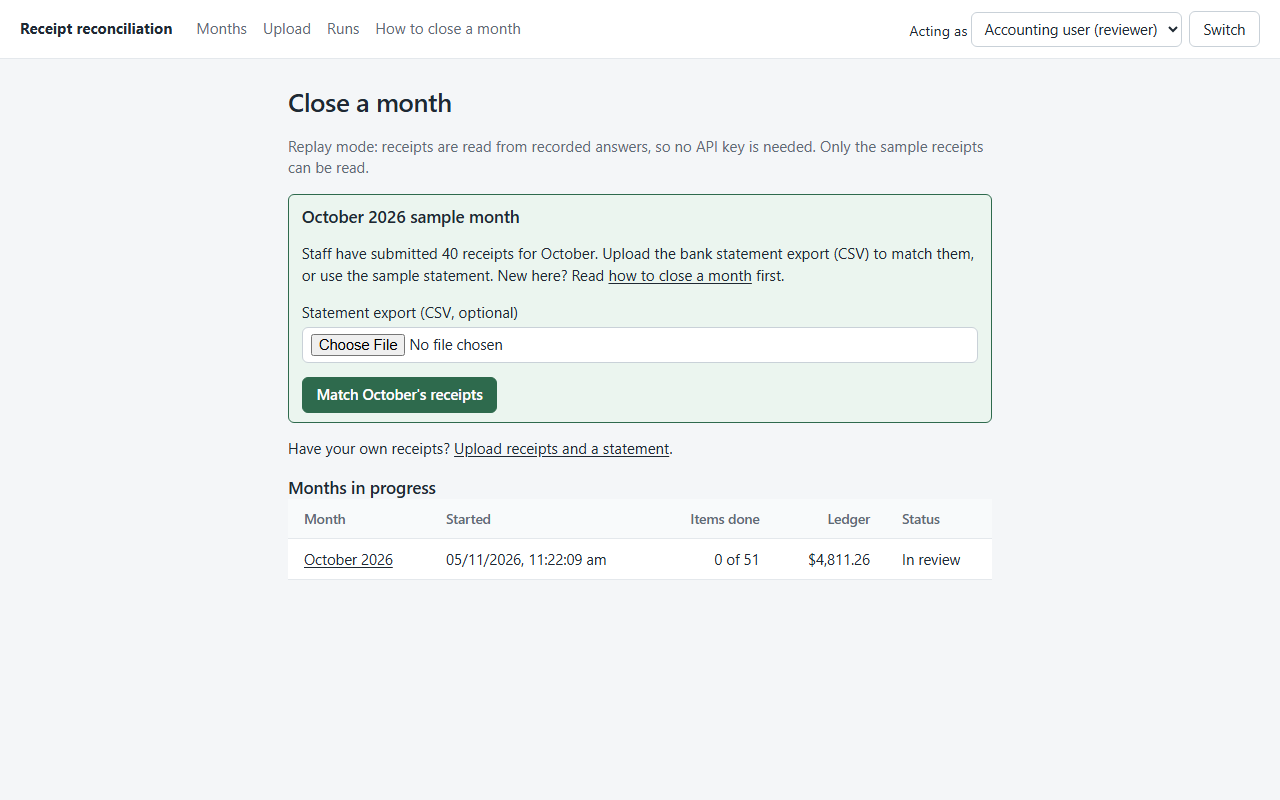
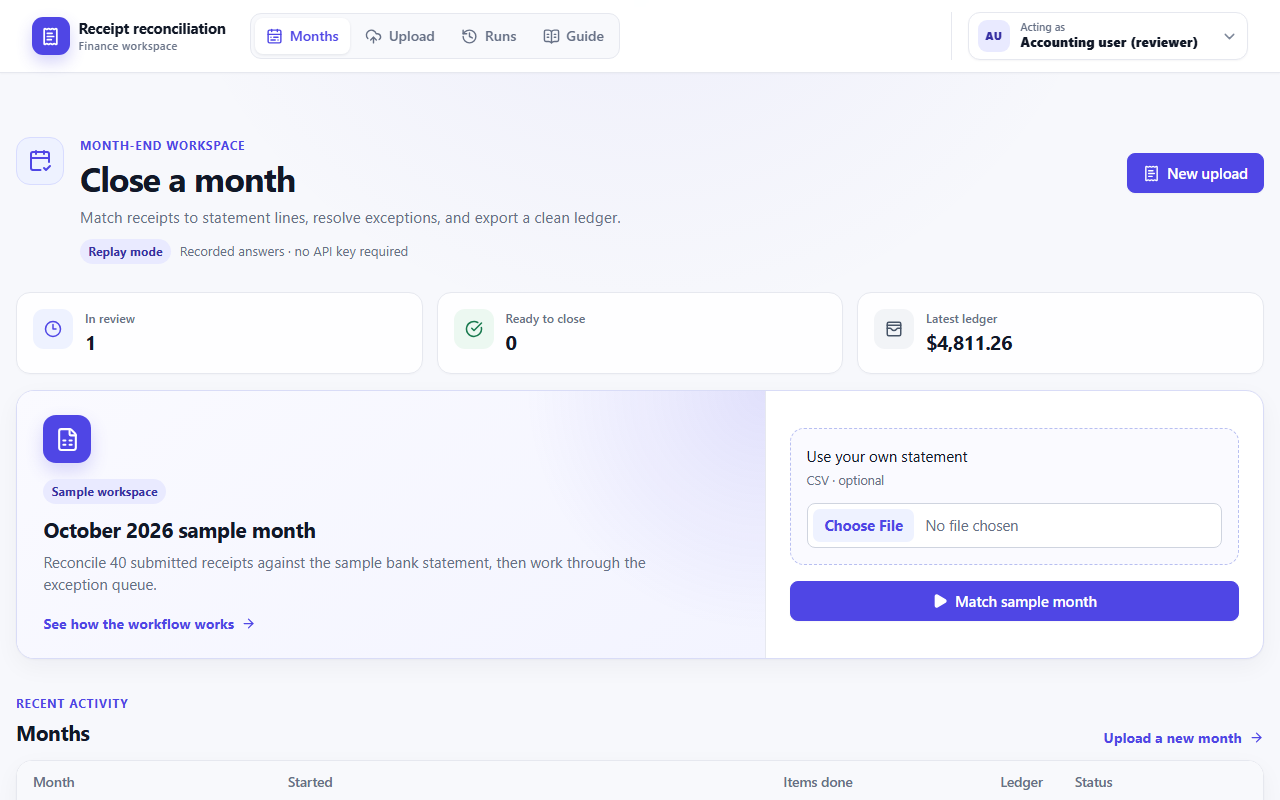
docs: README screenshots and button names for the redesigned UI; demo script labels

diff --git a/docs/sprint/days/day-5-handoff-and-present/demo-script.md b/docs/sprint/days/day-5-handoff-and-present/demo-script.md
@@ -15,12 +15,12 @@ The timing follows `08`. Recorded by the candidate. Every number on screen or sp
 | Time | Show | Say (in your own words) |
 |---|---|---|
 | **0:00–0:45** | The first page | "This comes from a real finance workflow at a company I currently work at; the data here is synthetic. Each month an Accounting user pairs every staff receipt with a card payment, by hand: 'pick a request, hunt for the charge'. Doing it manually is estimated at 20 to 40 minutes for 40 receipts. Pasting it into ChatGPT is fast, about 11 minutes, but in every run it paired 3 of 19 payments wrongly, including one $312 charge paid out three times." |
-| **0:45–1:15** | Press **Match October's receipts** (optionally upload `statement-format-b.csv` first). The queue appears | "The model only reads the receipts. Everything about money is tested code. The queue is in the order the user asked for: blocking problems, then amount differences, then missing information, then match decisions, then clean matches." Point at the tab counts. |
+| **0:45–1:15** | Press **Match sample month** (optionally upload `statement-format-b.csv` first). The queue appears | "The model only reads the receipts. Everything about money is tested code. The queue is in the order the user asked for: blocking problems, then amount differences, then missing information, then match decisions, then clean matches." Point at the tab counts. |
 | **1:15–1:45** | **Amount differences** is empty; go to **Match decisions**, open **R04** (QuickFix Repairs, $500). Choose **L16** ($560), press **Use this payment** | "A $500 repair charged at $560 is never paired automatically: 12% is over policy. I choose it, and it moves to Amount differences." |
 | **1:45–2:05** | R04 is open under **Amount differences**: point at the "Check this pairing" box. Type a reason ("Extra part fitted on site") and **Sign off difference**, then **Approve** | "It shows the receipt and the payment side by side and needs a real reason; 'Good' is refused." |
 | **2:05–2:20** | **Match decisions**, open **R15** ($19.99 app). Two $19.99 payments a day apart are offered. Choose **L22**, **Use this payment** | "Two equal charges a day apart: it never guesses, it asks." |
 | **2:20–2:30** | **Ready to approve**: press **Approve all … clean matches** (the button shows "Approving…") | "Clean matches go through in one click." |
-| **2:30–3:15** | **Month-end pack**: the tiles, by category and by payment source, "Left out of the totals", the no-receipt lines; press **Download ledger (CSV)** | "The pack is what the accountant hands on: totals that add up to the ledger, what was left out and why, and each payment that had no receipt." |
+| **2:30–3:15** | **Month-end pack**: the tiles, by category and by payment source, "Left out of the totals", the no-receipt lines; press **Download ledger** | "The pack is what the accountant hands on: totals that add up to the ledger, what was left out and why, and each payment that had no receipt." |
 | **3:15–4:15** | `EVALUATION.md`: the final table; then `failures.md` F4 | "Twelve test scenarios pass, no wrong automatic matches on the whole month or the holdout half. I broke it on purpose with 11 stress cases; four failed at first. For example, when the exchange-rate service was down, six receipts that were already paid in Australian dollars were flagged and the summary contradicted the ledger. After the fix: none flagged, the ledger unchanged." |
 | **4:15–5:00** | The "Final results at a glance" table, the time-to-close row | "Against the targets: every one met. A newcomer closed the month in 9 minutes, under the 10-minute target. The most important limitation: this is one synthetic month, closed by me and one proxy, not the real Accounting user. And the most interesting finding: the system's own matching was never wrong; every wrong number came from a person pairing a receipt with someone else's payment, so the last changes guard the human step. Next two weeks: the real user closes one real month, measured the same way." |
 

diff --git a/README.md b/README.md
@@ -18,14 +18,14 @@ You need [Node.js 22 or newer](https://nodejs.org) and pnpm (run `npm install -g
 
 ## Close a month
 
-1. **Start the month.** On the first page, under *October 2026 sample month*, choose your bank's statement export (CSV) and press **Match October's receipts**. Or press it without a file to use the sample statement. To read your own receipts instead, use **Upload** (this needs live mode; see below).
+1. **Start the month.** On the first page, under *October 2026 sample month*, choose your bank's statement export (CSV) and press **Match sample month**. Or press it without a file to use the sample statement. To read your own receipts instead, use **Upload** (this needs live mode; see below).
 2. **Work down the review queue.** Items are grouped worst first, one group per tab across the top; each tab shows how many items are in it, and the page opens on the first group with work. Click a row to open it; each row says, in one sentence, what to do. Every group shows its total.
    1. *Blocking intake problems*: unreadable files, files that are not receipts, duplicates.
    2. *Amount differences*: the charge differs from the receipt by more than policy allows.
    3. *Missing information*: a purpose to add, details to check, a category to choose.
    4. *Approvals needing a match decision*: choose a payment, approve a reimbursement, or deal with a payment that has no receipt.
    5. *Matches ready to approve*: check and approve, one at a time or with **Approve all clean matches**.
-3. **Open the month-end pack.** The **Month-end pack** button (top right of the queue) shows totals by category and by payment source, what was left out and why, and how each payment with no receipt was resolved. Download the ledger and the exceptions log from there.
+3. **Open the month-end pack.** The **Month-end pack** button on the review page shows totals by category and by payment source, what was left out and why, and how each payment with no receipt was resolved. Download the ledger and the exceptions log from there.
 
 The progress bar shows how many items are done. When it reaches the end, the pack says *Every item is resolved*.
 
